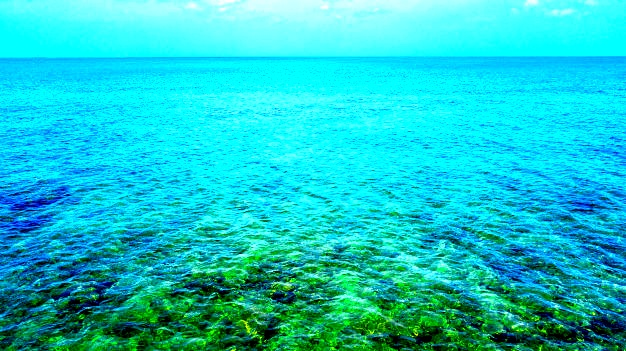
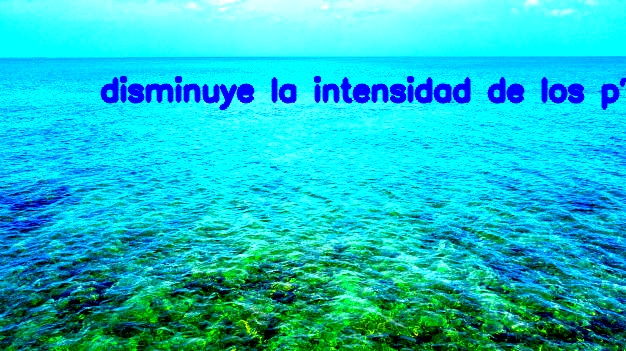
Agregando puText
Agregando una descripción de la formula a la imagen practica 4.3

Changed region(s): [[0.1518, 0.1994, 1.0, 0.3134]]

diff --git a/transformacion_4_3.py b/transformacion_4_3.py
@@ -13,7 +13,7 @@ def pixelVal(pix, r1, s1, r2, s2):  #transformación del contraste
         return ((255 - s2)/(255 - r2)) * (pix - r2) + s2 #aumenta la intensidad de una imagen
    
 img = cv2.imread('agua.jpg') 
-#cv2.putText(img,"disminuye la intensidad de los píxeles oscuros y aumenta la intensidad de los píxeles claros",(100,100), font, 1, (200,0,0), 3, cv2.LINE_AA)
+cv2.putText(img,"disminuye la intensidad de los píxeles oscuros y aumenta la intensidad de los píxeles claros",(100,100), font, 1, (200,0,0), 3, cv2.LINE_AA)
   
 #Los valores no pueden valer 0
 r1 = 70
